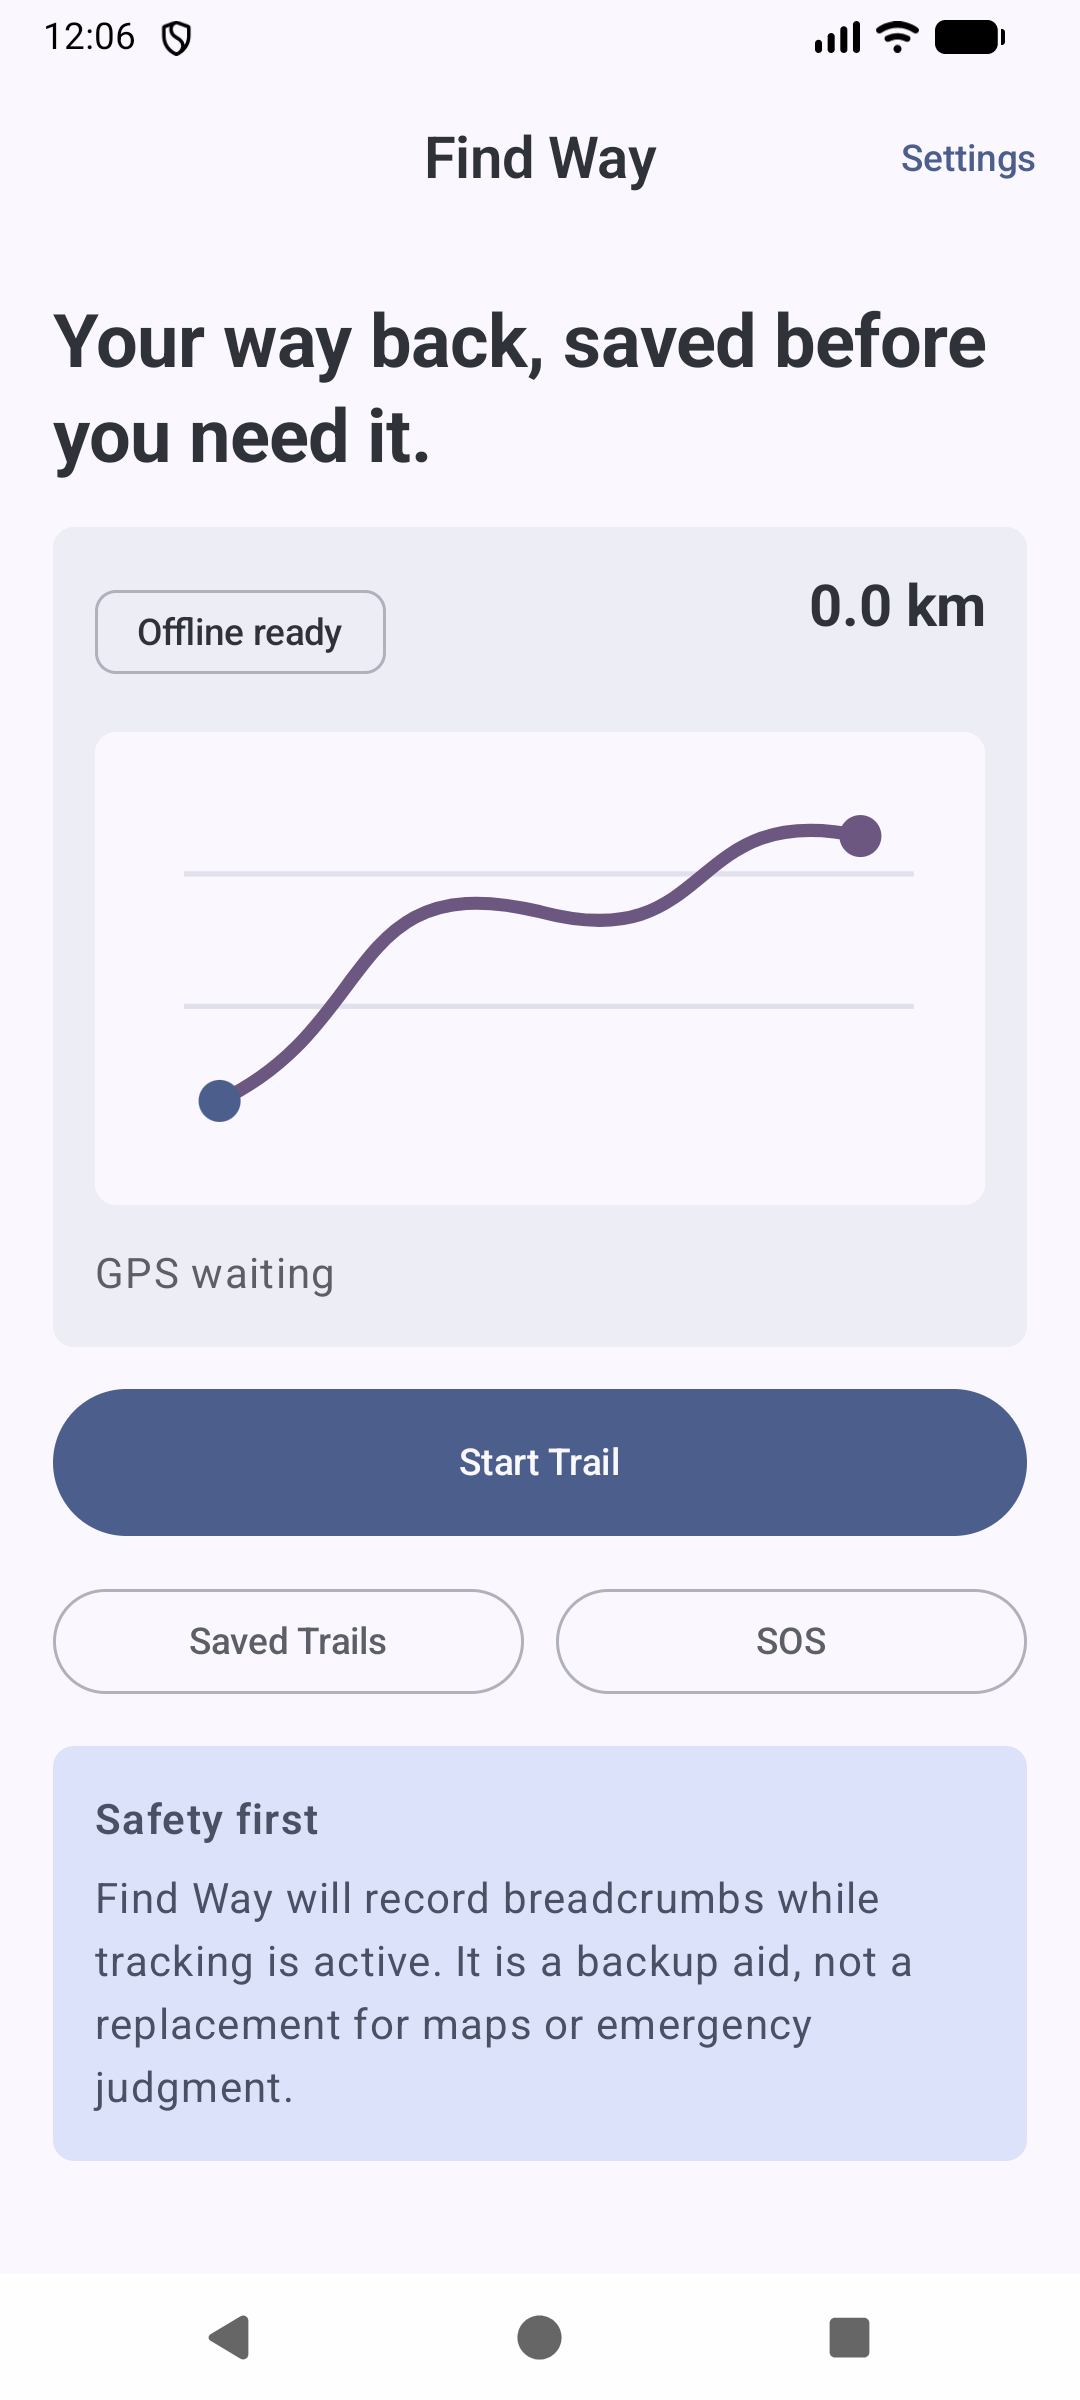
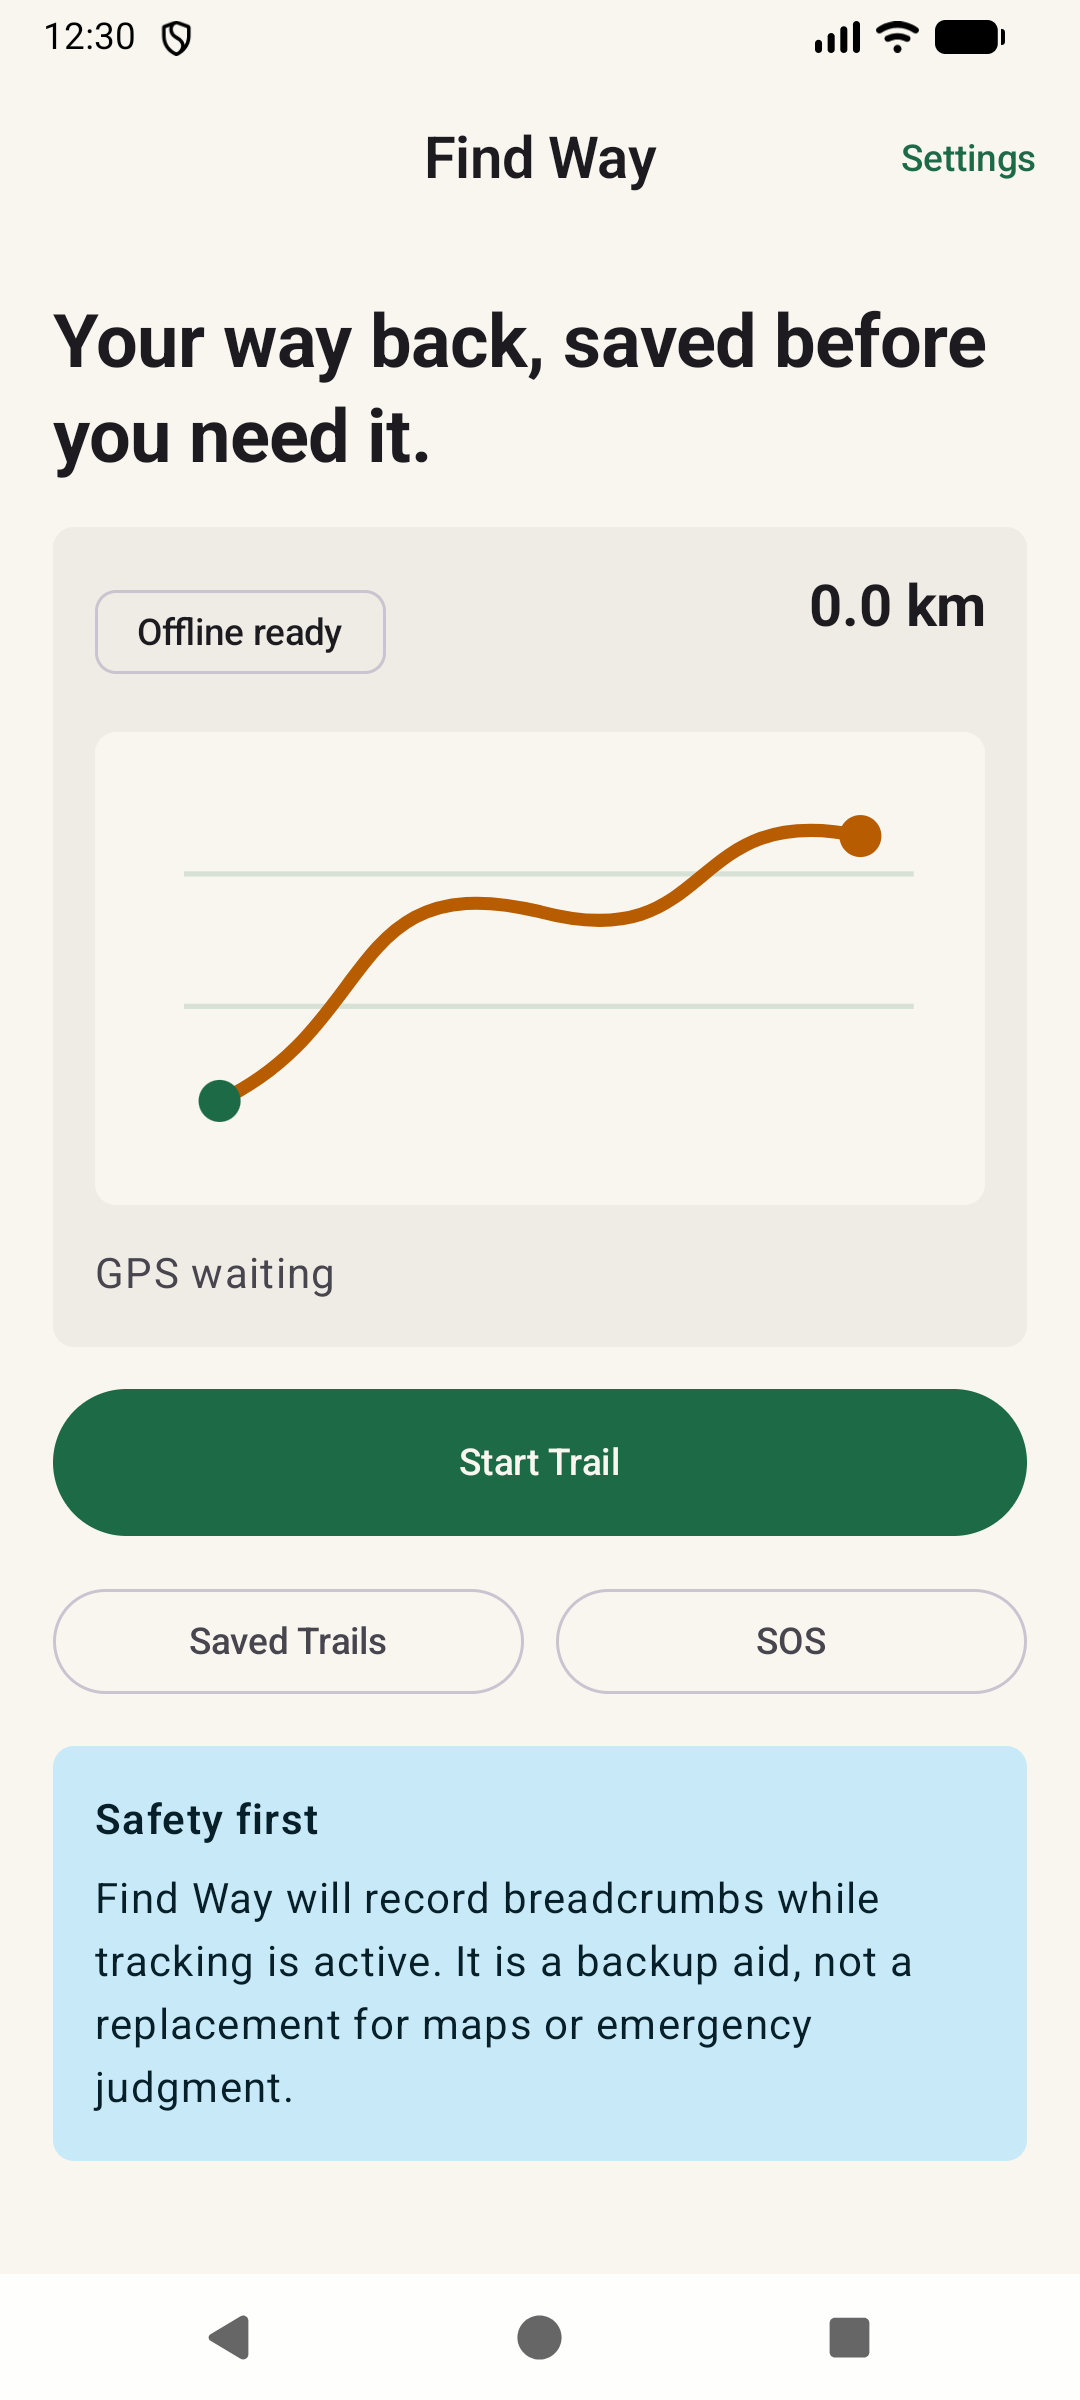
Add directional compass for route retracing

diff --git a/app/src/main/java/com/example/findway/ui/screens/AppScreens.kt b/app/src/main/java/com/example/findway/ui/screens/AppScreens.kt
@@ -9,7 +9,6 @@ import androidx.compose.foundation.layout.Box
 import androidx.compose.foundation.layout.Column
 import androidx.compose.foundation.layout.PaddingValues
 import androidx.compose.foundation.layout.Row
-import androidx.compose.foundation.layout.Spacer
 import androidx.compose.foundation.layout.WindowInsets
 import androidx.compose.foundation.layout.consumeWindowInsets
 import androidx.compose.foundation.layout.fillMaxSize
@@ -41,6 +40,7 @@ import androidx.compose.ui.geometry.Offset
 import androidx.compose.ui.graphics.Path
 import androidx.compose.ui.graphics.StrokeCap
 import androidx.compose.ui.graphics.drawscope.Stroke
+import androidx.compose.ui.graphics.drawscope.rotate
 import androidx.compose.ui.semantics.contentDescription
 import androidx.compose.ui.semantics.semantics
 import androidx.compose.ui.text.font.FontWeight
@@ -133,19 +133,33 @@ fun ReturnModeScreen(
   onOpenSos: () -> Unit,
 ) {
   FindWayScaffold(title = "Return Mode", onBack = onBack, actions = { TextButton(onClick = onOpenSos) { Text("SOS") } }) { innerPadding ->
-    Column(
-      modifier = Modifier.fillMaxSize().padding(innerPadding).consumeWindowInsets(innerPadding).padding(20.dp),
+    LazyColumn(
+      modifier = Modifier.fillMaxSize().padding(innerPadding).consumeWindowInsets(innerPadding),
+      contentPadding = PaddingValues(20.dp),
       verticalArrangement = Arrangement.spacedBy(16.dp),
       horizontalAlignment = Alignment.CenterHorizontally,
     ) {
-      Text("Take Me Back", style = MaterialTheme.typography.headlineLarge, fontWeight = FontWeight.Bold)
-      CompassCard()
-      Row(horizontalArrangement = Arrangement.spacedBy(12.dp), modifier = Modifier.fillMaxWidth()) {
-        TrailMetric(label = "Next point", value = "120 m", modifier = Modifier.weight(1f))
-        TrailMetric(label = "Remaining", value = "5.6 km", modifier = Modifier.weight(1f))
+      item { Text("Take Me Back", style = MaterialTheme.typography.headlineLarge, fontWeight = FontWeight.Bold) }
+      item {
+        DirectionCompassCard(
+          targetBearingDegrees = 42f,
+          deviceHeadingDegrees = 0f,
+          distanceMeters = 120,
+          gpsAccuracy = "GPS good",
+        )
       }
-      SafetyNote(title = "On path", body = "Stay close to the orange breadcrumb line. The app will warn you when you drift away.")
-      Button(modifier = Modifier.fillMaxWidth().height(56.dp), onClick = onOpenSos) { Text("Open SOS") }
+      item {
+        Row(horizontalArrangement = Arrangement.spacedBy(12.dp), modifier = Modifier.fillMaxWidth()) {
+          TrailMetric(label = "Next point", value = "120 m", modifier = Modifier.weight(1f))
+          TrailMetric(label = "Remaining", value = "5.6 km", modifier = Modifier.weight(1f))
+        }
+      }
+      item {
+        SafetyNote(title = "On path", body = "Stay close to the orange breadcrumb line. The app will warn you when you drift away.")
+      }
+      item {
+        Button(modifier = Modifier.fillMaxWidth().height(56.dp), onClick = onOpenSos) { Text("Open SOS") }
+      }
     }
   }
 }
@@ -308,23 +322,105 @@ private fun TrailMetric(
 }
 
 @Composable
-private fun CompassCard() {
-  Card(shape = RoundedCornerShape(8.dp), modifier = Modifier.fillMaxWidth()) {
+private fun DirectionCompassCard(
+  targetBearingDegrees: Float,
+  deviceHeadingDegrees: Float,
+  distanceMeters: Int,
+  gpsAccuracy: String,
+) {
+  val relativeBearing = (targetBearingDegrees - deviceHeadingDegrees + 360f) % 360f
+  val cardinalDirection = cardinalDirection(targetBearingDegrees)
+  Card(
+    shape = RoundedCornerShape(8.dp),
+    colors = CardDefaults.cardColors(containerColor = MaterialTheme.colorScheme.surfaceContainer),
+    modifier = Modifier.fillMaxWidth(),
+  ) {
     Column(
       modifier = Modifier.padding(20.dp),
       horizontalAlignment = Alignment.CenterHorizontally,
       verticalArrangement = Arrangement.spacedBy(12.dp),
     ) {
+      Text("Follow the arrow", style = MaterialTheme.typography.titleLarge, fontWeight = FontWeight.Bold)
       Box(
-        modifier = Modifier.size(168.dp).background(MaterialTheme.colorScheme.primaryContainer, CircleShape),
+        modifier =
+          Modifier.size(220.dp)
+            .background(MaterialTheme.colorScheme.primaryContainer, CircleShape)
+            .semantics {
+              contentDescription =
+                "Direction arrow pointing $cardinalDirection at ${targetBearingDegrees.toInt()} degrees"
+            },
         contentAlignment = Alignment.Center,
       ) {
-        Text("N", modifier = Modifier.align(Alignment.TopCenter).padding(top = 12.dp), color = MaterialTheme.colorScheme.onPrimaryContainer)
-        Text("120 m", style = MaterialTheme.typography.headlineMedium, fontWeight = FontWeight.Bold)
+        DirectionArrow(relativeBearingDegrees = relativeBearing, modifier = Modifier.fillMaxSize().padding(26.dp))
+        Text("N", modifier = Modifier.align(Alignment.TopCenter).padding(top = 8.dp), fontWeight = FontWeight.Bold)
+        Text("E", modifier = Modifier.align(Alignment.CenterEnd).padding(end = 10.dp), fontWeight = FontWeight.SemiBold)
+        Text("S", modifier = Modifier.align(Alignment.BottomCenter).padding(bottom = 8.dp), fontWeight = FontWeight.SemiBold)
+        Text("W", modifier = Modifier.align(Alignment.CenterStart).padding(start = 8.dp), fontWeight = FontWeight.SemiBold)
       }
-      Text("Face the next breadcrumb", textAlign = TextAlign.Center, color = MaterialTheme.colorScheme.onSurfaceVariant)
+      Text(
+        "$distanceMeters m to next breadcrumb",
+        style = MaterialTheme.typography.headlineSmall,
+        fontWeight = FontWeight.Bold,
+        textAlign = TextAlign.Center,
+      )
+      Text(
+        "${targetBearingDegrees.toInt()}° $cardinalDirection · $gpsAccuracy",
+        color = MaterialTheme.colorScheme.onSurfaceVariant,
+      )
+      Text(
+        "Turn with your phone until the arrow points straight ahead, then walk toward the next breadcrumb.",
+        textAlign = TextAlign.Center,
+        color = MaterialTheme.colorScheme.onSurfaceVariant,
+      )
     }
   }
+}
+
+@Composable
+private fun DirectionArrow(
+  relativeBearingDegrees: Float,
+  modifier: Modifier = Modifier,
+) {
+  val arrowColor = MaterialTheme.colorScheme.tertiary
+  val arrowOutline = MaterialTheme.colorScheme.onTertiary
+  Canvas(modifier = modifier) {
+    val center = this.center
+    val arrowLength = size.minDimension * 0.42f
+    val headWidth = size.minDimension * 0.13f
+    val headHeight = size.minDimension * 0.18f
+
+    drawCircle(
+      color = arrowColor.copy(alpha = 0.14f),
+      radius = size.minDimension * 0.46f,
+      center = center,
+      style = Stroke(width = 2.dp.toPx()),
+    )
+    rotate(degrees = relativeBearingDegrees, pivot = center) {
+      drawLine(
+        color = arrowColor,
+        start = Offset(center.x, center.y + arrowLength * 0.45f),
+        end = Offset(center.x, center.y - arrowLength + headHeight * 0.45f),
+        strokeWidth = 14.dp.toPx(),
+        cap = StrokeCap.Round,
+      )
+      val arrowHead =
+        Path().apply {
+          moveTo(center.x, center.y - arrowLength)
+          lineTo(center.x - headWidth, center.y - arrowLength + headHeight)
+          lineTo(center.x + headWidth, center.y - arrowLength + headHeight)
+          close()
+        }
+      drawPath(path = arrowHead, color = arrowColor)
+      drawPath(path = arrowHead, color = arrowOutline.copy(alpha = 0.35f), style = Stroke(width = 1.dp.toPx()))
+    }
+    drawCircle(color = arrowColor, radius = 10.dp.toPx(), center = center)
+  }
+}
+
+private fun cardinalDirection(bearingDegrees: Float): String {
+  val directions = listOf("N", "NE", "E", "SE", "S", "SW", "W", "NW")
+  val normalized = (bearingDegrees % 360f + 360f) % 360f
+  return directions[((normalized + 22.5f) / 45f).toInt() % directions.size]
 }
 
 @Composable

diff --git a/app/src/main/java/com/example/findway/domain/TrailProgress.kt b/app/src/main/java/com/example/findway/domain/TrailProgress.kt
@@ -17,6 +17,7 @@ data class TrailPoint(
 data class ReturnProgress(
   val nextPoint: TrailPoint?,
   val distanceToNextMeters: Int,
+  val bearingToNextDegrees: Int?,
   val remainingDistanceMeters: Int,
   val offRouteDistanceMeters: Int,
   val isOffRoute: Boolean,
@@ -33,6 +34,7 @@ class TrailProgressCalculator(
       return ReturnProgress(
         nextPoint = null,
         distanceToNextMeters = 0,
+        bearingToNextDegrees = null,
         remainingDistanceMeters = 0,
         offRouteDistanceMeters = 0,
         isOffRoute = false,
@@ -54,6 +56,7 @@ class TrailProgressCalculator(
     return ReturnProgress(
       nextPoint = nextPoint,
       distanceToNextMeters = distanceMeters(currentLocation, nextPoint).roundToInt(),
+      bearingToNextDegrees = initialBearingDegrees(currentLocation, nextPoint).roundToInt() % 360,
       remainingDistanceMeters = remainingDistance.roundToInt(),
       offRouteDistanceMeters = offRouteDistance.roundToInt(),
       isOffRoute = offRouteDistance > offRouteThresholdMeters,
@@ -71,5 +74,14 @@ class TrailProgressCalculator(
         cos(fromLat) * cos(toLat) * sin(deltaLon / 2) * sin(deltaLon / 2)
     val c = 2 * atan2(sqrt(a), sqrt(1 - a))
     return earthRadiusMeters * c
+  }
+
+  private fun initialBearingDegrees(from: TrailPoint, to: TrailPoint): Double {
+    val fromLat = Math.toRadians(from.latitude)
+    val toLat = Math.toRadians(to.latitude)
+    val deltaLon = Math.toRadians(to.longitude - from.longitude)
+    val y = sin(deltaLon) * cos(toLat)
+    val x = cos(fromLat) * sin(toLat) - sin(fromLat) * cos(toLat) * cos(deltaLon)
+    return (Math.toDegrees(atan2(y, x)) + 360.0) % 360.0
   }
 }

diff --git a/app/src/main/java/com/example/findway/theme/Theme.kt b/app/src/main/java/com/example/findway/theme/Theme.kt
@@ -13,19 +13,38 @@ import androidx.compose.ui.platform.LocalContext
 private val DarkColorScheme =
   darkColorScheme(
     primary = Forest80,
+    onPrimary = OnForestContainerLight,
+    primaryContainer = Forest40,
+    onPrimaryContainer = Forest80,
     secondary = Sky80,
+    secondaryContainer = Sky40,
+    onSecondaryContainer = Sky80,
     tertiary = SafetyOrange80,
+    tertiaryContainer = SafetyOrange40,
+    onTertiaryContainer = OrangeContainerLight,
     background = TrailSurfaceDark,
     surface = TrailSurfaceDark,
+    surfaceContainer = TrailSurfaceContainerDark,
   )
 
 private val LightColorScheme =
   lightColorScheme(
     primary = Forest40,
+    onPrimary = TrailSurfaceLight,
+    primaryContainer = ForestContainerLight,
+    onPrimaryContainer = OnForestContainerLight,
     secondary = Sky40,
+    onSecondary = TrailSurfaceLight,
+    secondaryContainer = SkyContainerLight,
+    onSecondaryContainer = OnSkyContainerLight,
     tertiary = SafetyOrange40,
+    onTertiary = TrailSurfaceLight,
+    tertiaryContainer = OrangeContainerLight,
+    onTertiaryContainer = OnOrangeContainerLight,
     background = TrailSurfaceLight,
     surface = TrailSurfaceLight,
+    surfaceContainer = TrailSurfaceContainerLight,
+    outline = TrailOutlineLight,
 
     /* Other default colors to override
     background = Color(0xFFFFFBFE),
@@ -41,8 +60,7 @@ private val LightColorScheme =
 @Composable
 fun FindWayTheme(
   darkTheme: Boolean = isSystemInDarkTheme(),
-  // Dynamic color is available on Android 12+
-  dynamicColor: Boolean = true,
+  dynamicColor: Boolean = false,
   content: @Composable () -> Unit,
 ) {
   val colorScheme =

diff --git a/app/src/test/java/com/example/findway/domain/TrailProgressCalculatorTest.kt b/app/src/test/java/com/example/findway/domain/TrailProgressCalculatorTest.kt
@@ -18,6 +18,7 @@ class TrailProgressCalculatorTest {
       )
 
     assertEquals(null, progress.nextPoint)
+    assertEquals(null, progress.bearingToNextDegrees)
     assertEquals(0, progress.remainingDistanceMeters)
     assertFalse(progress.isOffRoute)
   }
@@ -36,8 +37,23 @@ class TrailProgressCalculatorTest {
 
     assertNotNull(progress.nextPoint)
     assertEquals(middle, progress.nextPoint)
+    assertTrue(progress.bearingToNextDegrees in 269..271)
     assertTrue(progress.remainingDistanceMeters in 190..220)
     assertFalse(progress.isOffRoute)
+  }
+
+  @Test
+  fun calculateReturnProgress_toNorthernBreadcrumb_returnsNorthBearing() {
+    val north = TrailPoint(latitude = 25.0010, longitude = 51.0000)
+    val current = TrailPoint(latitude = 25.0000, longitude = 51.0000)
+
+    val progress =
+      calculator.calculateReturnProgress(
+        currentLocation = current,
+        recordedRoute = listOf(north, current),
+      )
+
+    assertTrue(progress.bearingToNextDegrees in 0..1)
   }
 
   @Test

diff --git a/app/src/androidTest/java/com/example/findway/ui/screens/ReturnModeScreenTest.kt b/app/src/androidTest/java/com/example/findway/ui/screens/ReturnModeScreenTest.kt
@@ -1,0 +1,30 @@
+package com.example.findway.ui.screens
+
+import androidx.activity.ComponentActivity
+import androidx.compose.ui.test.hasContentDescription
+import androidx.compose.ui.test.junit4.createAndroidComposeRule
+import androidx.compose.ui.test.onNodeWithText
+import com.example.findway.theme.FindWayTheme
+import org.junit.Before
+import org.junit.Rule
+import org.junit.Test
+
+class ReturnModeScreenTest {
+  @get:Rule val composeTestRule = createAndroidComposeRule<ComponentActivity>()
+
+  @Before
+  fun setup() {
+    composeTestRule.setContent {
+      FindWayTheme(dynamicColor = false) {
+        ReturnModeScreen(onBack = {}, onOpenSos = {})
+      }
+    }
+  }
+
+  @Test
+  fun returnMode_showsDirectionalRetraceGuidance() {
+    composeTestRule.onNodeWithText("Follow the arrow").assertExists()
+    composeTestRule.onNodeWithText("120 m to next breadcrumb").assertExists()
+    composeTestRule.onNode(hasContentDescription("Direction arrow pointing NE at 42 degrees")).assertExists()
+  }
+}

diff --git a/app/src/main/java/com/example/findway/theme/Color.kt b/app/src/main/java/com/example/findway/theme/Color.kt
@@ -9,5 +9,14 @@ val SafetyOrange80 = Color(0xFFFFBF7A)
 val Forest40 = Color(0xFF1D6B46)
 val Sky40 = Color(0xFF2C6F8F)
 val SafetyOrange40 = Color(0xFFB85C00)
+val ForestContainerLight = Color(0xFFB8F0CF)
+val OnForestContainerLight = Color(0xFF002114)
+val SkyContainerLight = Color(0xFFC8EAF8)
+val OnSkyContainerLight = Color(0xFF061F29)
+val OrangeContainerLight = Color(0xFFFFDCBB)
+val OnOrangeContainerLight = Color(0xFF351000)
 val TrailSurfaceLight = Color(0xFFF8F6EF)
+val TrailSurfaceContainerLight = Color(0xFFEEECE4)
+val TrailOutlineLight = Color(0xFF727871)
 val TrailSurfaceDark = Color(0xFF111D18)
+val TrailSurfaceContainerDark = Color(0xFF1D2A24)

diff --git a/README.md b/README.md
@@ -14,6 +14,7 @@ Find Way is intended to be an offline-first safety aid with a calm, readable int
   <tr>
     <td align="center"><img src="docs/screenshots/home.png" alt="Find Way home screen" width="360" /><br /><strong>Home</strong></td>
     <td align="center"><img src="docs/screenshots/tracking.png" alt="Find Way active tracking screen" width="360" /><br /><strong>Active tracking</strong></td>
+    <td align="center"><img src="docs/screenshots/return-mode.png" alt="Find Way directional return mode" width="360" /><br /><strong>Directional return</strong></td>
   </tr>
 </table>
 
@@ -29,6 +30,7 @@ Implemented:
 - Type-safe, saveable Navigation 3 routes
 - Home, Tracking, Return Mode, Saved Trails, Trail Detail, SOS, and Settings screens
 - Initial breadcrumb route visualization
+- Bearing-driven compass arrow toward the next return breadcrumb
 - Pure Kotlin return-progress calculation
 - Unit and instrumented Compose tests
 - Successful build, launch, and test verification on an Android emulator
